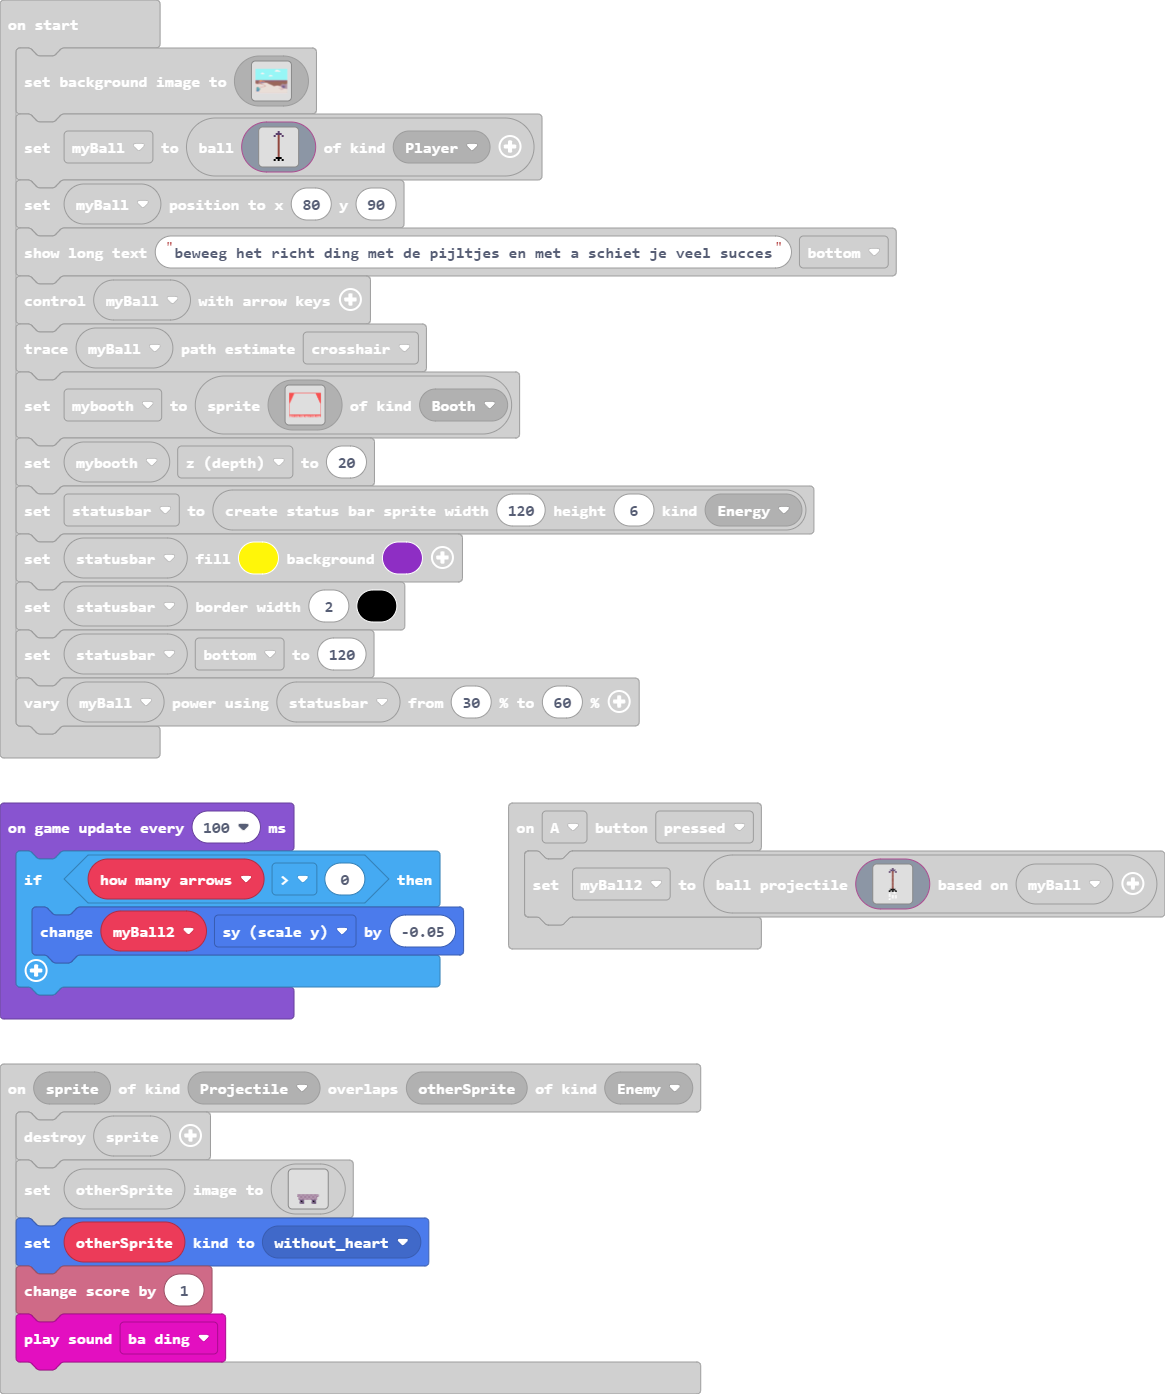
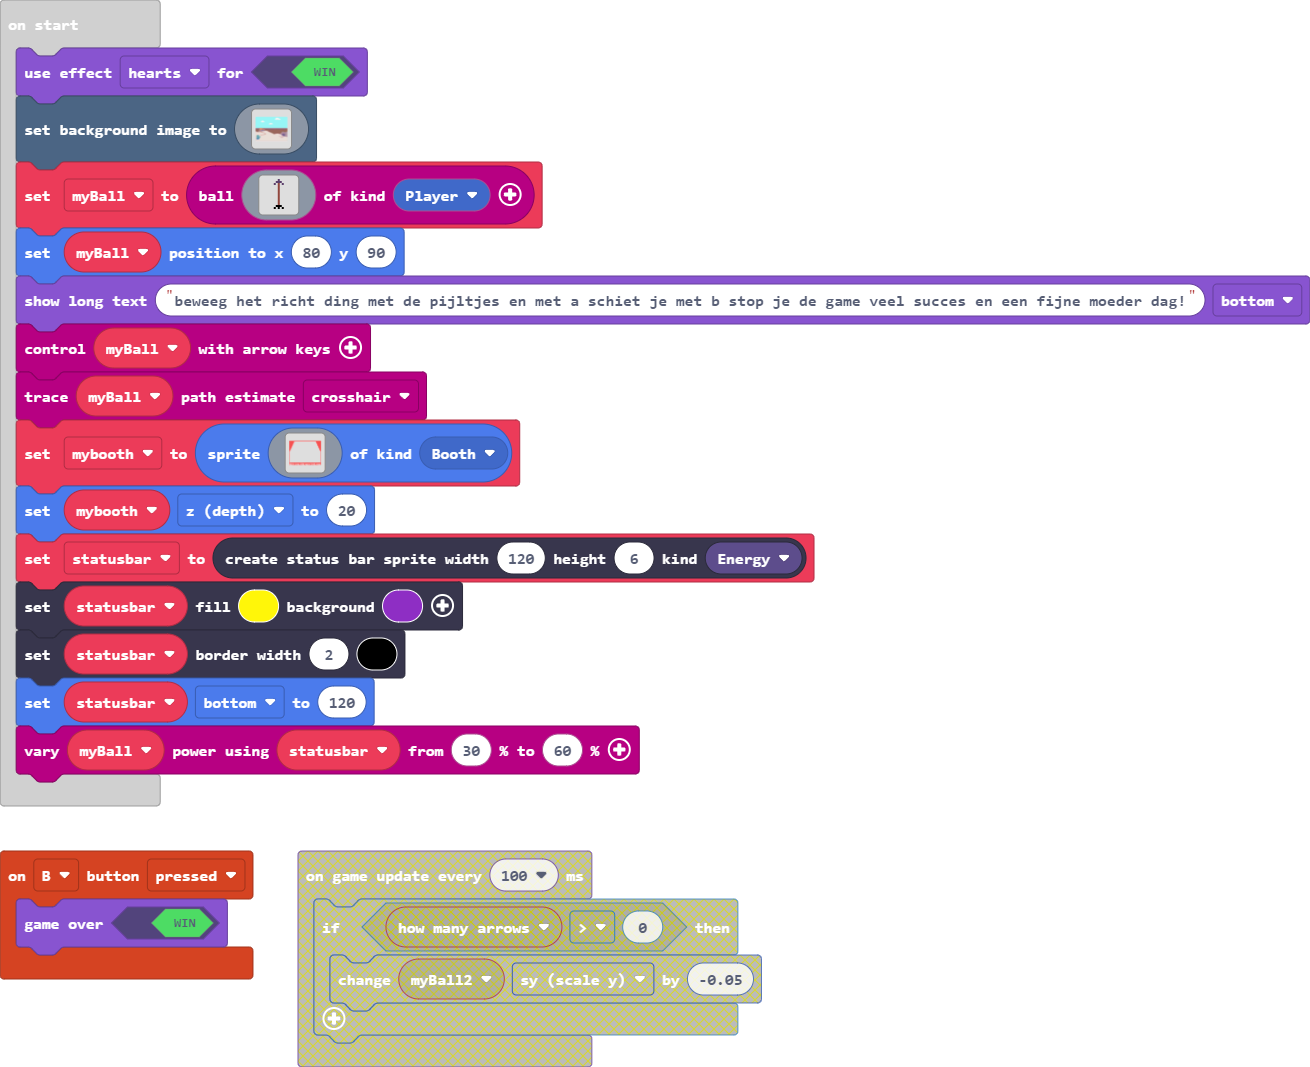
Update main.blocks, main.ts

diff --git a/main.ts b/main.ts
@@ -1,6 +1,9 @@
 namespace SpriteKind {
     export const without_heart = SpriteKind.create()
 }
+controller.B.onEvent(ControllerButtonEvent.Pressed, function () {
+    game.gameOver(true)
+})
 controller.A.onEvent(ControllerButtonEvent.Pressed, function () {
     myBall2 = carnival.createProjectileBallFromSprite(img`
         . . c . . 
@@ -65,6 +68,7 @@ sprites.onOverlap(SpriteKind.Projectile, SpriteKind.Enemy, function (sprite, oth
 let projectile: Sprite = null
 let myBall2: Ball = null
 let myBall: Ball = null
+game.setGameOverEffect(true, effects.hearts)
 scene.setBackgroundImage(assets.image`wildWest`)
 myBall = carnival.create(img`
     . . c . . 
@@ -85,7 +89,7 @@ myBall = carnival.create(img`
     . . . . . 
     `, SpriteKind.Player)
 myBall.setPosition(80, 90)
-game.showLongText("beweeg het richt ding met de pijltjes en met a schiet je veel succes", DialogLayout.Bottom)
+game.showLongText("beweeg het richt ding met de pijltjes en met a schiet je met b stop je de game veel succes en een fijne moeder dag!", DialogLayout.Bottom)
 myBall.controlBallWithArrowKeys()
 myBall.setTraceMulti(carnival.Tracers.Cross)
 let mybooth = sprites.create(assets.image`booth`, SpriteKind.Booth)
@@ -100,10 +104,4 @@ forever(function () {
     projectile.bottom = 56
     projectile.setKind(SpriteKind.Enemy)
     pause(randint(500, 2000))
-})
-game.onUpdateInterval(100, function () {
-    let how_many_arrows = 0
-    if (how_many_arrows > 0) {
-        myBall2.sy += -0.05
-    }
 })
